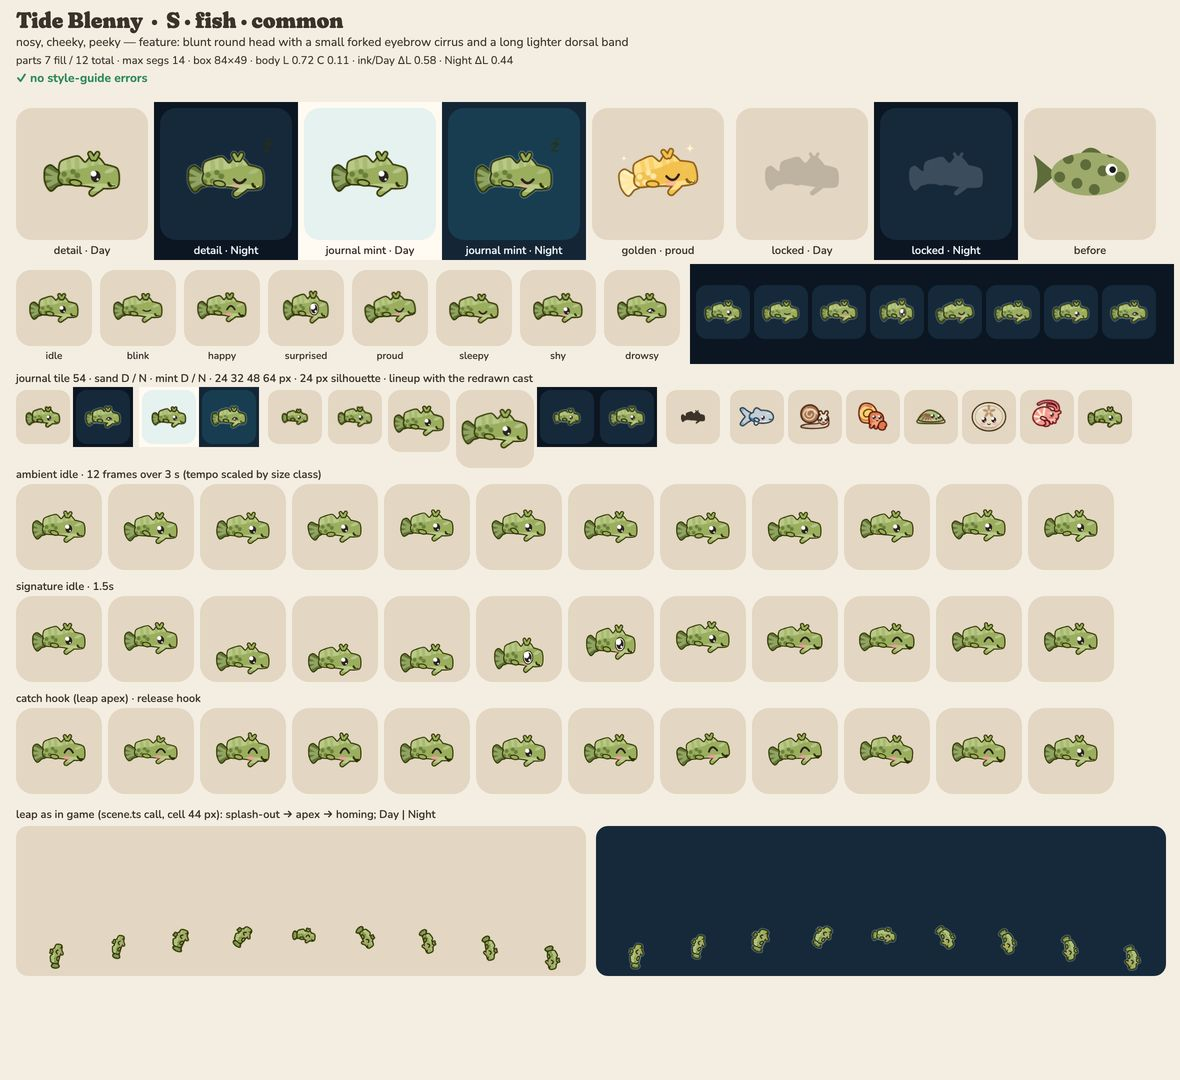
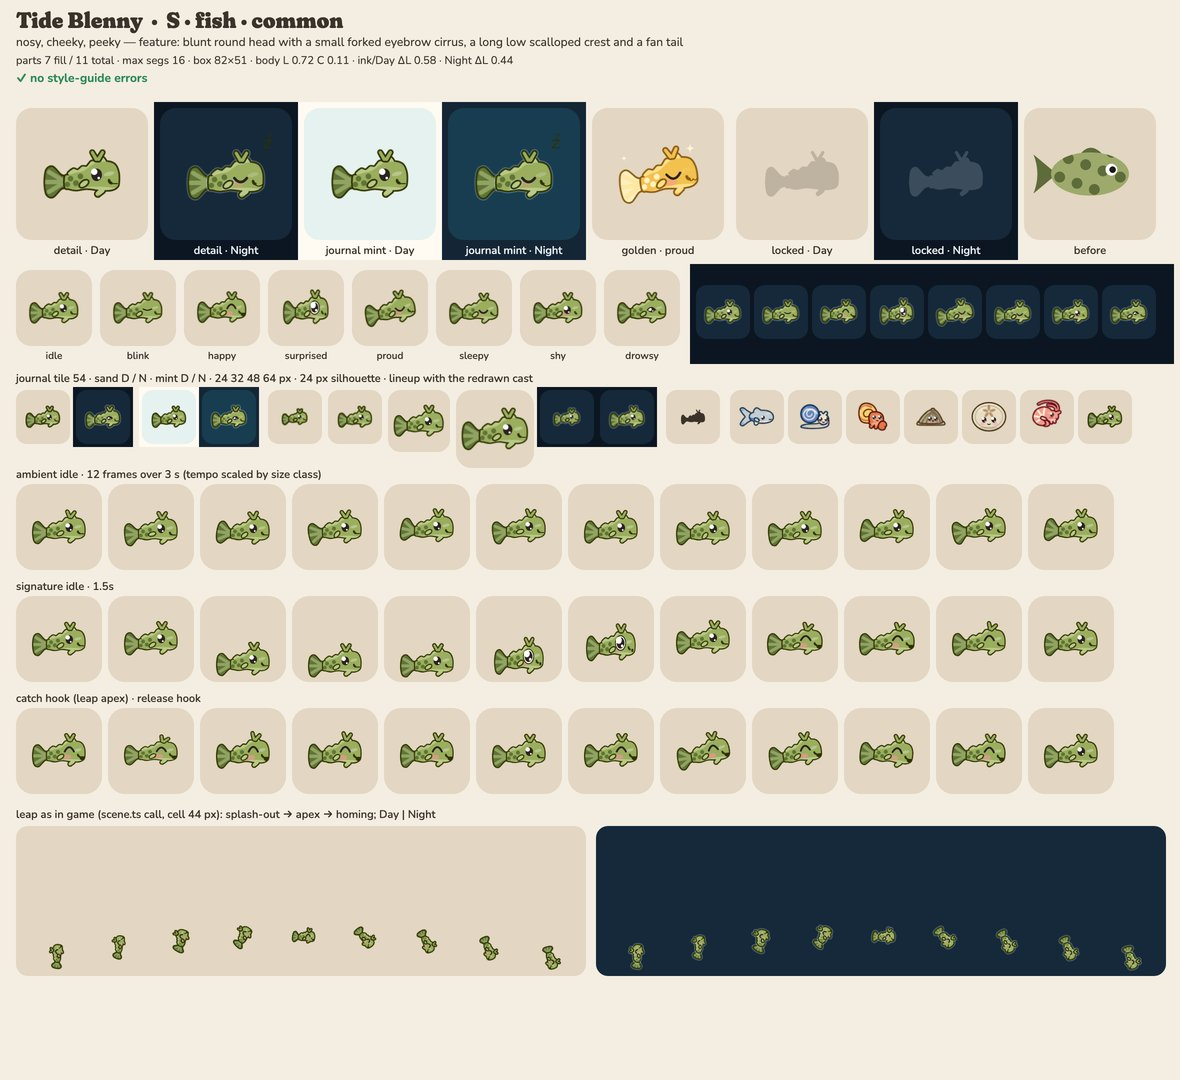
render: blenny art round 5 — low scalloped crest, big blunt head, fan tail (ADR 0011)
CRITIQUE-4 (cold read: frog/toad): one continuous low crest over 70 % of the back (5 u, #B9C987,
4 scallops); 4 u peduncle notch; pectoral 70 %, rotated 35° back on the upper flank (pale); spots
8 -> 4 at 6 u #5F7436; wide flat lips w 9 with the one-sided 3 u smirk. The long pelvic "leg" is a
chin nub; the eye is 14 u and high on a steep blunt head (31 u deep, flat belly).
Deviations: tail fan 1.2x (not 1.3x) and lips at ~1/4 head height (the eye sits above 1/3): 1.3x
pushed blenny/lanternfish IoU to 0.74. Closest: wrasse 0.671, flounder 0.669, lanternfish 0.660.
Sheet: no style-guide errors or warnings.

diff --git a/src/render/art/species/blenny.ts b/src/render/art/species/blenny.ts
@@ -1,108 +1,103 @@
 /**
  * Blenny — the nosy neighbour of the shallows (fish class, profile view, level).
- * Silhouette (R10): a blunt, round-headed body that stays deep to the tail (peduncle ≥ 55 % of the
- * head height, so never a drumstick) with one small forked eyebrow cirrus over the eye, one long
- * lighter two-lobed dorsal crest (the blenny notch) from nape to tail, and a rounded olive fan tail.
+ * Silhouette (R10): a blunt, steep, round-headed body (head 31 u deep) with a flat belly, the big
+ * eye set high under one small forked eyebrow cirrus, one continuous low scalloped crest along 70 %
+ * of the back (CRITIQUE-4: 5 u, #B9C987, 4 scallops), a 4 u peduncle notch and a big olive fan tail.
+ * CRITIQUE-4 cold read was "frog/toad": the long pelvic leg is now a small chin nub, the tall
+ * dorsal sail is a low crest, and the pale pectoral is small, swept back 35° on the upper flank.
  * Personality: nosy, cheeky, peeky; rests with a one-sided smirk. Signature: ducks out of sight
  * below the tile edge, peeks back up, and waggles its eyebrows.
  */
 import { blob, capsule, circle, defineArt, ellipse, join, waveTrack, within } from '../kit.ts';
 
-// blunt round head at the front (+38); long and low (2.6 : 1), tapering gently to a deep tail
-// root (19 u vs a 31 u head = 61 %): never a drumstick, never a round clownfish
+// blunt round head at the front (+35), long and low, tapering to a deep tail root (12 u vs a 25 u
+// head) that steps in 4 u at the peduncle notch before the fan
 const body = blob(
   [
-    [38.1, 0.0],
-    [37.1, -8.0],
-    [33.2, -12.12],
-    [16.0, -15.48],
-    [2.0, -12.04],
-    [-13.0, -9.46],
-    [-26.0, -8.17],
-    [-30.0, 0.0],
-    [-26.0, 6.04],
-    [-13.0, 6.99],
-    [2.0, 8.58],
-    [16.0, 10.85],
-    [32.2, 10.85],
-    [37.1, 8.0],
+    [35.5, 0],
+    [35, -11.2],
+    [30.5, -19.9],
+    [21, -22.5],
+    [9, -20.5],
+    [-3, -12.5],
+    [-13, -10],
+    [-20, -7.5],
+    [-24, -6],
+    [-24, 6],
+    [-20, 7.5],
+    [-12, 9],
+    [0, 7.3],
+    [14, 9.0],
+    [27, 9.0],
+    [33.8, 5.6],
   ],
   1,
 );
-// the long dorsal fin: one lighter crest riding the whole back, nape to tail root, with the
-// blenny's little notch halfway; drawn behind the body so only its rayed top edge shows
+// CRITIQUE-4: one continuous low dorsal crest over 70 % of the back (x 18 → −22), 5 u above the
+// back line with 4 soft scallops, drawn behind the body so only the scalloped top shows
 const dorsal = blob(
   [
-    [25, -9],
-    [17, -21.2],
-    [8, -25.4],
-    [0, -17.4],
-    [-8, -24.4],
-    [-19, -22.0],
-    [-28, -17.6],
-    [-27, -5],
-    [0, -6],
-    [20, -6],
+    [22, -18.5],
+    [19, -26.7],
+    [14.5, -26.4],
+    [10, -23.2],
+    [5, -22.8],
+    [0, -17.0],
+    [-5, -17.0],
+    [-10, -13.2],
+    [-15, -14.4],
+    [-21, -9.0],
+    [-12, -6],
+    [8, -9],
   ],
   0.8,
 );
-const dorsalRays = join(
-  capsule(13, -11, 2.5, 13, -20.5, 2.5),
-  capsule(5, -10, 2.5, 4.5, -22, 2.5),
-  capsule(-9, -9, 2.5, -9.5, -21, 2.5),
-  capsule(-18, -8, 2.5, -19, -19.5, 2.5),
-);
-// a rounded fan tail in the darker olive, flaring from the deep peduncle
+// a rounded fan tail 1.3x, in the darker olive, flaring from the notched peduncle (±4.5 → ±18)
 const tail = blob(
   [
-    [-25, -6],
-    [-32, -8.8],
-    [-39.2, -14.2],
-    [-45.2, -9.8],
-    [-45.2, 4.5],
-    [-39.2, 14.2],
-    [-32, 8.8],
-    [-25, 6],
+    [-22, -4.5],
+    [-29, -7.5],
+    [-38, -16.5],
+    [-44.5, -13.5],
+    [-46.5, 0],
+    [-44.5, 13.5],
+    [-38, 16.5],
+    [-29, 7.5],
+    [-22, 4.5],
   ],
   0.9,
 );
-// the eyebrow cirri (CRITIQUE-3): one small Y rooted on the head right over the eye, two forks of
-// 4 × 6 u splayed ±30°, standing ≤ 18 % of the body height: eyebrows, never antlers or bunny ears
-const forkF = capsule(11.3, -22.5, 2, 14.3, -27.7, 1.7);
-const forkR = capsule(8.7, -22.5, 2, 5.7, -27.7, 1.7);
-// a flat pectoral swept back along the flank, well behind the eye (not a second mouth)
-const pectoral = ellipse(-11, 5.5, 6, 2.6, 12);
-// the pelvic perch, rotated 35° back and −30 % so it tucks along the belly (it hung like a leg)
-const pelvic = capsule(17, 10, 3.2, 8, 17, 2.8);
-// resting smirk: a one-sided 3 u upturn at the cheek end of the flat mouth (the kit has no smirk)
-const smirk = 'M29.2 8.8Q27.2 8.4 26.8 5.8';
-// darker olive spots (R18 spots, ≥ 6 u), placed by hand along the flank, clear of the eye
-const spots = join(
-  circle(-9, -3, 3.3),
-  circle(-19, 2.5, 3.1),
-  circle(-24, -4.5, 3.1),
-  circle(-28, 3.5, 3.1),
-  circle(-14, -7.5, 3.1),
-);
+// the eyebrow cirri: one small Y rooted on the crest's front over the eye, two forks of 4 × 6 u
+// splayed ±30°: eyebrows, never antlers or bunny ears
+const forkF = capsule(13.3, -25.0, 2, 17.8, -32.8, 1.7);
+const forkR = capsule(10.7, -25.0, 2, 6.2, -32.8, 1.7);
+// CRITIQUE-4: the pectoral 70 % size, rotated 35° back, rooted on the flank above the belly line
+const pectoral = ellipse(-3, 2, 5.2, 2.6, -35);
+// a small pelvic perch tucked along the belly (short: a long one hung like a frog's leg)
+const pelvic = capsule(17, 9.5, 3, 12.5, 13.5, 2.6);
+// resting smirk: a one-sided 3 u upturn at the cheek end of the wide flat lips (the kit has no smirk)
+const smirk = 'M27.4 1.4Q25.4 1 25 -1.6';
+// CRITIQUE-4: 4 darker olive spots of 6 u, placed by hand on the rear flank, clear of the eye
+const spots = join(circle(-7, -6, 3.2), circle(-12, 1.5, 3.2), circle(-18, -3.5, 3.1), circle(-21.5, 3, 3));
 
 export default defineArt({
   id: 'blenny',
   klass: 'fish',
   size: 'S',
-  feature: 'blunt round head with a small forked eyebrow cirrus and a long lighter dorsal band',
+  feature: 'blunt round head with a small forked eyebrow cirrus, a long low scalloped crest and a fan tail',
   personality: ['nosy', 'cheeky', 'peeky'],
   palette: { body: '#9AAE5E', accent: '#5F7436', belly: '#B9C987' },
   groups: [
     {
       id: 'tail',
-      pivot: [-28, 0],
+      pivot: [-23, 0],
       parts: [
         { d: tail, role: 'accent' },
         {
           d: join(
-            capsule(-30, -2, 2.4, -43, -8.5, 2.5),
-            capsule(-31, 0, 2.4, -45, 0, 2.5),
-            capsule(-30, 2, 2.4, -43, 8.5, 2.5),
+            capsule(-28, -2.5, 2.4, -42, -11, 2.5),
+            capsule(-29, 0, 2.4, -45, 0, 2.5),
+            capsule(-28, 2.5, 2.4, -42, 11, 2.5),
           ),
           role: 'belly',
           kind: 'pattern',
@@ -114,31 +109,30 @@ export default defineArt({
       id: 'body',
       parts: [
         { d: dorsal, role: 'belly' },
-        { d: dorsalRays, role: 'body', kind: 'pattern', alpha: 0.5 },
         { d: pelvic, role: 'body' },
         { d: body, role: 'body' },
-        { d: ellipse(14, 10.5, 26, 4.5), role: 'belly', kind: 'pattern' },
-        { d: spots, role: 'accent', kind: 'pattern', alpha: 0.8 },
+        { d: ellipse(12, 10, 26, 4.5), role: 'belly', kind: 'pattern' },
+        { d: spots, role: 'accent', kind: 'pattern' },
         { d: smirk, role: 'ink', kind: 'line', w: 3 },
       ],
     },
     {
       id: 'tufts',
-      pivot: [10, -22],
+      pivot: [12, -20.5],
       parts: [
         { d: forkF, role: 'body' },
         { d: forkR, role: 'body' },
       ],
     },
-    { id: 'finA', pivot: [-5, 4], parts: [{ d: pectoral, role: 'body' }] },
+    { id: 'finA', pivot: [1, -0.5], parts: [{ d: pectoral, role: 'belly' }] },
   ],
-  shine: ellipse(28, -8.5, 6, 2.4, -20),
+  shine: ellipse(25, -9, 6, 2.4, -15),
   face: {
-    eyes: [[12, -2]],
-    eye: 13,
-    zone: [-1, -34, 41, 56],
+    eyes: [[11, -8]],
+    eye: 14,
+    zone: [-3, -41, 41, 59],
     // cheeky: a flat mouth + the one-sided upturn line in the body group = the resting smirk
-    mouth: { at: [31.5, 8.4], w: 8, shape: 'flat' },
+    mouth: { at: [31.3, 1.4], w: 9, shape: 'flat' },
   },
   idle: {
     ambient: [
